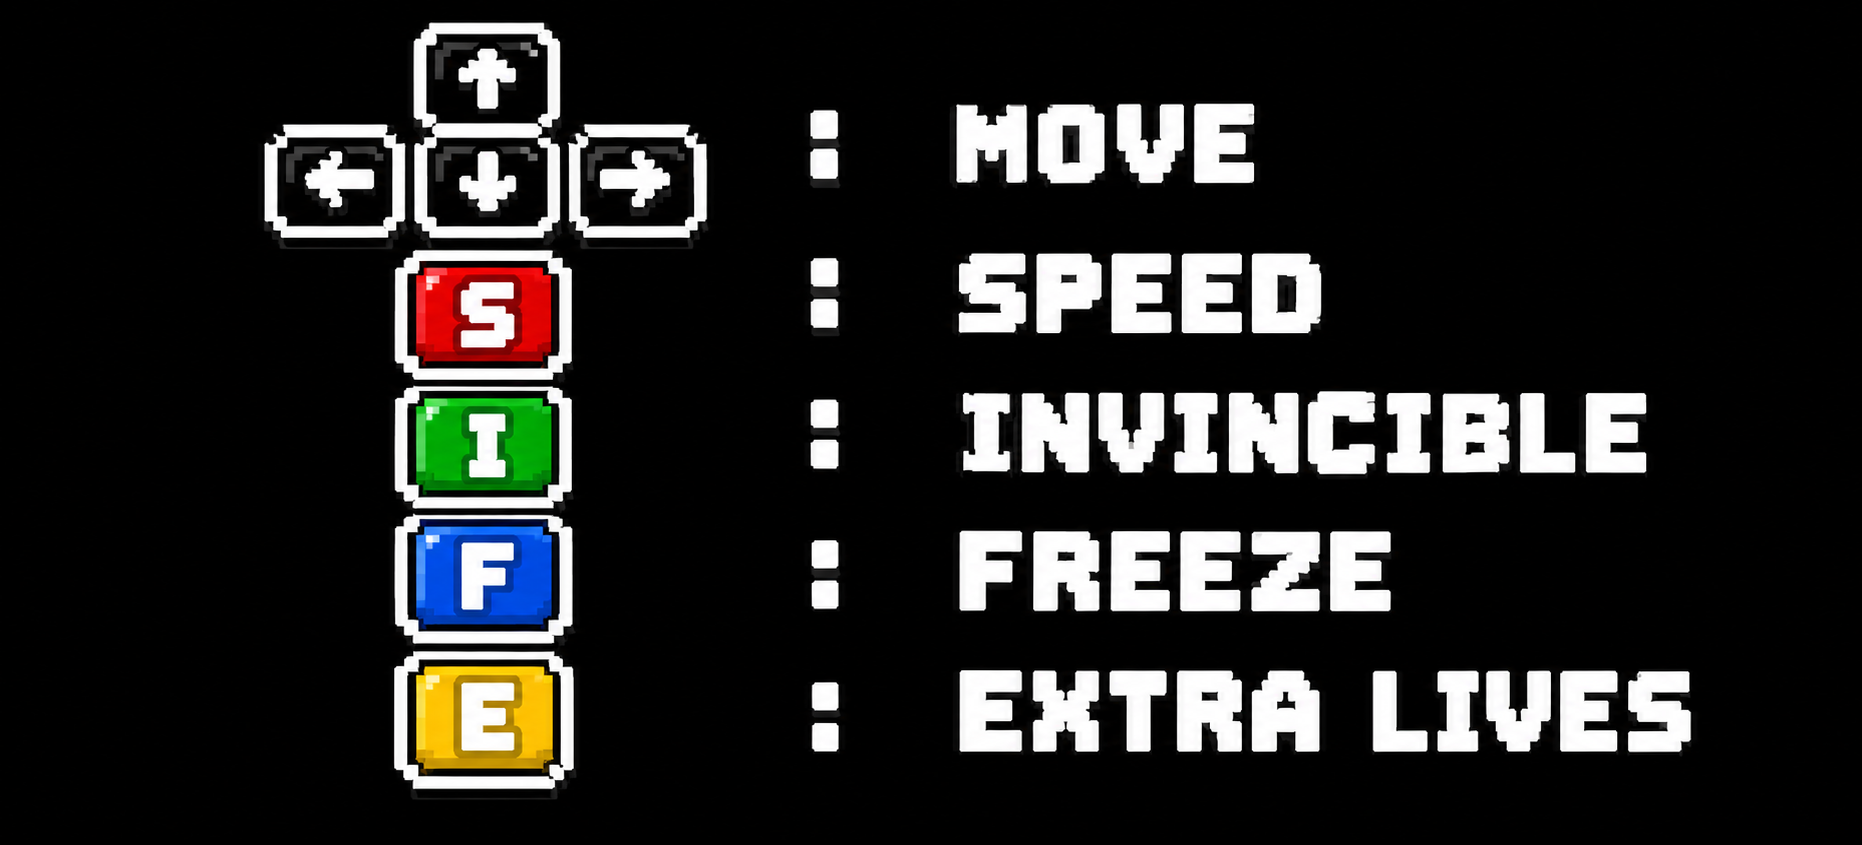
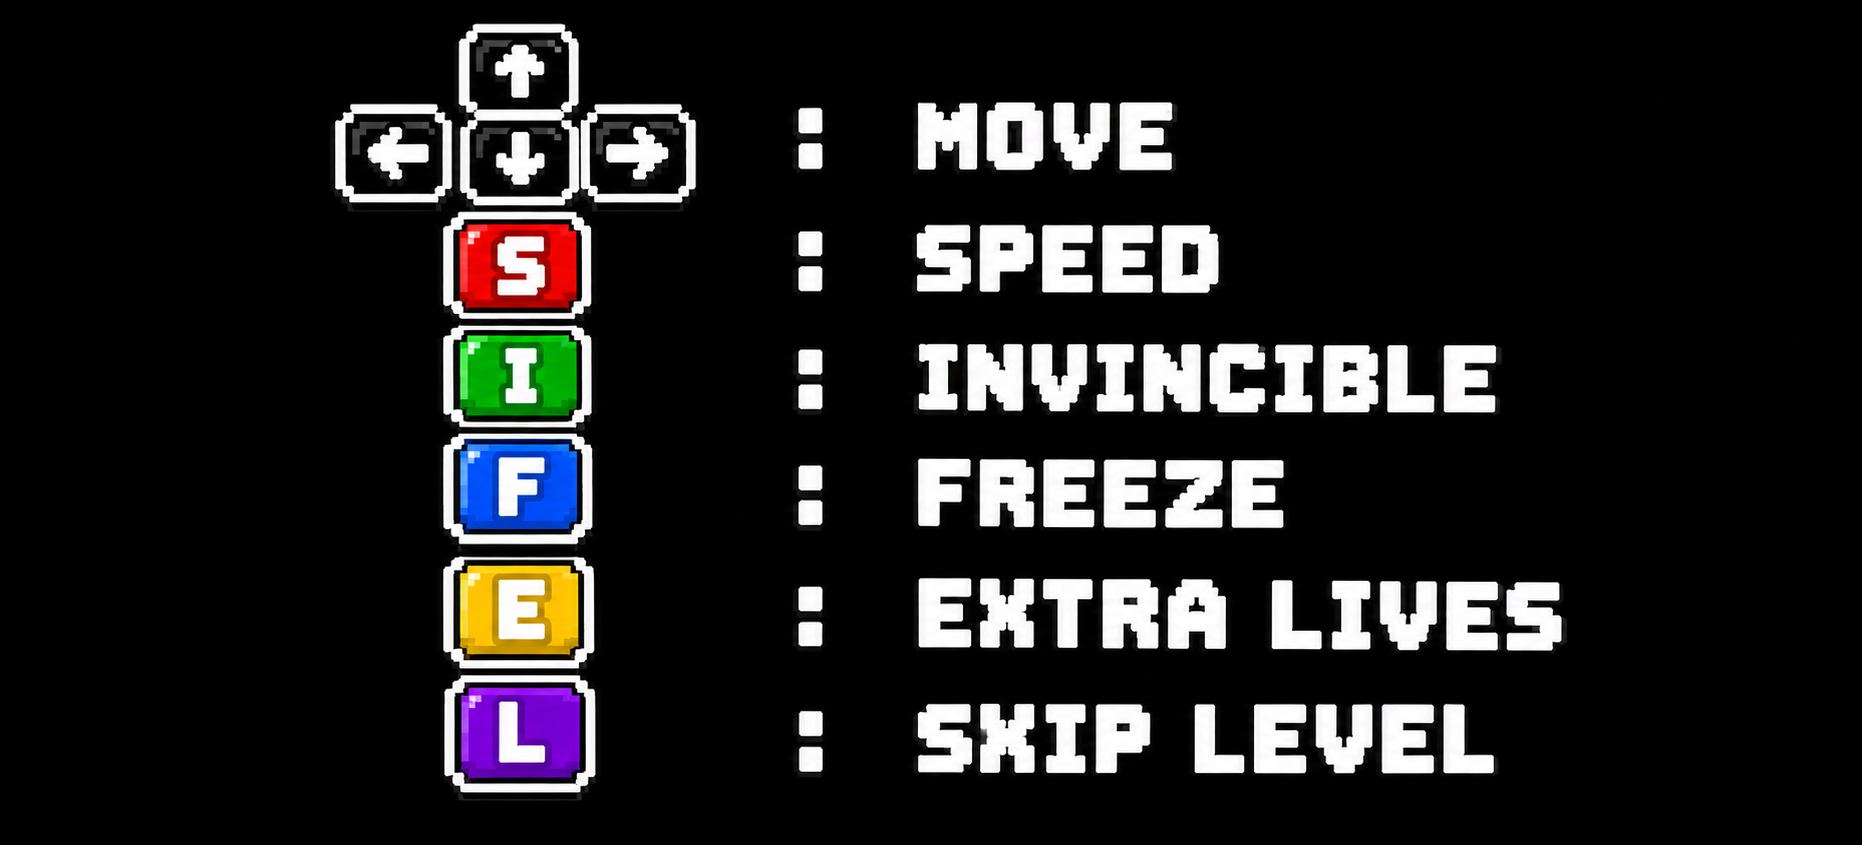
clear highscore and  level skip and victory menu

Changed region(s): [[0.4049, 0.2462, 0.9345, 0.9231], [0.1246, 0.0, 0.6853, 0.9538]]

diff --git a/src/ui.py b/src/ui.py
@@ -1,64 +1,67 @@
+import sys
 import pygame
 
 class Images:
     def __init__(self):
-        self.img_title = pygame.image.load("assets/images/title.png")
-        self.img_title = pygame.transform.scale(self.img_title ,(550, 150))
-        self.img_start = pygame.image.load("assets/images/start.png")
-        self.img_start = pygame.transform.scale(self.img_start ,(400, 150))
-        self.img_start_hover = pygame.image.load("assets/images/start_hover.png")
-        self.img_start_hover = pygame.transform.scale(self.img_start_hover ,(400, 150))
-        self.img_highscore = pygame.image.load("assets/images/highscore.png")
-        self.img_highscore = pygame.transform.scale(self.img_highscore ,(400, 150))
-        self.img_highscore_hover = pygame.image.load("assets/images/highscore_hover.png")
-        self.img_highscore_hover = pygame.transform.scale(self.img_highscore_hover ,(400, 150))
-        self.img_instructions = pygame.image.load("assets/images/instructions.png")
-        self.img_instructions = pygame.transform.scale(self.img_instructions ,(400, 150))
-        self.img_instructions_hover = pygame.image.load("assets/images/instructions_hover.png")
-        self.img_instructions_hover = pygame.transform.scale(self.img_instructions_hover ,(400, 150))
-        self.img_exit = pygame.image.load("assets/images/exit.png")
-        self.img_exit = pygame.transform.scale(self.img_exit ,(400, 150))
-        self.img_exit_hover = pygame.image.load("assets/images/exit_hover.png")
-        self.img_exit_hover = pygame.transform.scale(self.img_exit_hover ,(400, 150))
-        self.img_dig = {}
-        for d in "0123456789":
-            self.img_dig[d] = pygame.image.load(f"assets/images/digit_{d}.png")
-            self.img_dig[d] = pygame.transform.scale(self.img_dig[d], (40, 40))
-        self.img_heart = pygame.image.load("assets/images/heart.png")
-        self.img_heart = pygame.transform.scale(self.img_heart, (50, 50))
-        self.img_game_over = pygame.image.load("assets/images/game_over.png")
-        self.img_game_over = pygame.transform.scale(self.img_game_over ,(650, 400))
-        self.img_menu = pygame.image.load("assets/images/menu.png")
-        self.img_menu = pygame.transform.scale(self.img_menu, (500, 150))
-        self.img_menu_hover = pygame.image.load("assets/images/menu_hover.png")
-        self.img_menu_hover = pygame.transform.scale(self.img_menu_hover, (500, 150))
-        self.img_pause = pygame.image.load("assets/images/pause.png")
-        self.img_pause = pygame.transform.scale(self.img_pause, (100, 100))
-        self.img_pause_title = pygame.image.load("assets/images/pause_title.png")
-        self.img_pause_title = pygame.transform.scale(self.img_pause_title, (800, 400))
-        self.img_continue = pygame.image.load("assets/images/continue.png")
-        self.img_continue = pygame.transform.scale(self.img_continue, (500, 150))
-        self.img_continue_hover = pygame.image.load("assets/images/continue_hover.png")
-        self.img_continue_hover = pygame.transform.scale(self.img_continue_hover, (500, 150))
-        self.img_on = pygame.image.load("assets/images/on.png")
-        self.img_on = pygame.transform.scale(self.img_on, (100, 50))
-        self.img_off = pygame.image.load("assets/images/off.png")
-        self.img_off = pygame.transform.scale(self.img_off, (100, 50))
-        self.img_freeze = pygame.image.load("assets/images/freeze.png")
-        self.img_freeze = pygame.transform.scale(self.img_freeze, (250, 70))
-        self.img_invincible = pygame.image.load("assets/images/invincible.png")
-        self.img_invincible = pygame.transform.scale(self.img_invincible, (200, 50))
-        self.img_speed = pygame.image.load("assets/images/speed.png")
-        self.img_speed = pygame.transform.scale(self.img_speed, (250, 70))
-        self.img_instructions_title = pygame.image.load("assets/images/instructions_title.png")
-        self.img_instructions_title = pygame.transform.scale(self.img_instructions_title, (800, 200))
-        self.img_highscore_title = pygame.image.load("assets/images/highscore_title.png")
-        self.img_highscore_title = pygame.transform.scale(self.img_highscore_title, (800, 200))
-        self.img_controls = pygame.image.load("assets/images/controls.png")
-        self.img_controls = pygame.transform.scale(self.img_controls, (1000, 500))
-        self.img_box = pygame.image.load("assets/images/box.png")
-        self.img_box = pygame.transform.scale(self.img_box, (500, 150))
-        self.img_save = pygame.image.load("assets/images/save.png")
-        self.img_save = pygame.transform.scale(self.img_save, (500, 150))
-        self.img_save_hover = pygame.image.load("assets/images/save_hover.png")
-        self.img_save_hover = pygame.transform.scale(self.img_save_hover, (500, 150))
+        try :
+            self.img_title = pygame.image.load("assets/images/title.png")
+            self.img_title = pygame.transform.scale(self.img_title ,(550, 150))
+            self.img_start = pygame.image.load("assets/images/start.png")
+            self.img_start = pygame.transform.scale(self.img_start ,(400, 150))
+            self.img_start_hover = pygame.image.load("assets/images/start_hover.png")
+            self.img_start_hover = pygame.transform.scale(self.img_start_hover ,(400, 150))
+            self.img_highscore = pygame.image.load("assets/images/highscore.png")
+            self.img_highscore = pygame.transform.scale(self.img_highscore ,(400, 150))
+            self.img_highscore_hover = pygame.image.load("assets/images/highscore_hover.png")
+            self.img_highscore_hover = pygame.transform.scale(self.img_highscore_hover ,(400, 150))
+            self.img_instructions = pygame.image.load("assets/images/instructions.png")
+            self.img_instructions = pygame.transform.scale(self.img_instructions ,(400, 150))
+            self.img_instructions_hover = pygame.image.load("assets/images/instructions_hover.png")
+            self.img_instructions_hover = pygame.transform.scale(self.img_instructions_hover ,(400, 150))
+            self.img_exit = pygame.image.load("assets/images/exit.png")
+            self.img_exit = pygame.transform.scale(self.img_exit ,(400, 150))
+            self.img_exit_hover = pygame.image.load("assets/images/exit_hover.png")
+            self.img_exit_hover = pygame.transform.scale(self.img_exit_hover ,(400, 150))
+            self.img_heart = pygame.image.load("assets/images/heart.png")
+            self.img_heart = pygame.transform.scale(self.img_heart, (70, 70))
+            self.img_game_over = pygame.image.load("assets/images/game_over.png")
+            self.img_game_over = pygame.transform.scale(self.img_game_over ,(650, 400))
+            self.img_menu = pygame.image.load("assets/images/menu.png")
+            self.img_menu = pygame.transform.scale(self.img_menu, (500, 150))
+            self.img_menu_hover = pygame.image.load("assets/images/menu_hover.png")
+            self.img_menu_hover = pygame.transform.scale(self.img_menu_hover, (500, 150))
+            self.img_pause = pygame.image.load("assets/images/pause.png")
+            self.img_pause = pygame.transform.scale(self.img_pause, (100, 100))
+            self.img_pause_title = pygame.image.load("assets/images/pause_title.png")
+            self.img_pause_title = pygame.transform.scale(self.img_pause_title, (800, 400))
+            self.img_continue = pygame.image.load("assets/images/continue.png")
+            self.img_continue = pygame.transform.scale(self.img_continue, (500, 150))
+            self.img_continue_hover = pygame.image.load("assets/images/continue_hover.png")
+            self.img_continue_hover = pygame.transform.scale(self.img_continue_hover, (500, 150))
+            self.img_on = pygame.image.load("assets/images/on.png")
+            self.img_on = pygame.transform.scale(self.img_on, (100, 50))
+            self.img_off = pygame.image.load("assets/images/off.png")
+            self.img_off = pygame.transform.scale(self.img_off, (100, 50))
+            self.img_freeze = pygame.image.load("assets/images/freeze.png")
+            self.img_freeze = pygame.transform.scale(self.img_freeze, (250, 70))
+            self.img_invincible = pygame.image.load("assets/images/invincible.png")
+            self.img_invincible = pygame.transform.scale(self.img_invincible, (200, 50))
+            self.img_speed = pygame.image.load("assets/images/speed.png")
+            self.img_speed = pygame.transform.scale(self.img_speed, (250, 70))
+            self.img_instructions_title = pygame.image.load("assets/images/instructions_title.png")
+            self.img_instructions_title = pygame.transform.scale(self.img_instructions_title, (800, 200))
+            self.img_highscore_title = pygame.image.load("assets/images/highscore_title.png")
+            self.img_highscore_title = pygame.transform.scale(self.img_highscore_title, (800, 200))
+            self.img_controls = pygame.image.load("assets/images/controls.png")
+            self.img_controls = pygame.transform.scale(self.img_controls, (1000, 500))
+            self.img_box = pygame.image.load("assets/images/box.png")
+            self.img_box = pygame.transform.scale(self.img_box, (500, 150))
+            self.img_save = pygame.image.load("assets/images/save.png")
+            self.img_save = pygame.transform.scale(self.img_save, (500, 150))
+            self.img_save_hover = pygame.image.load("assets/images/save_hover.png")
+            self.img_save_hover = pygame.transform.scale(self.img_save_hover, (500, 150))
+            self.img_victory = pygame.image.load("assets/images/victory.png")
+            self.img_victory = pygame.transform.scale(self.img_victory, (1000, 350))
+        except FileNotFoundError:
+            print(f"Image not Found")
+            sys.exit(1)

diff --git a/src/game.py b/src/game.py
@@ -44,14 +44,14 @@ class Game:
         self.run_menu = True
         self.run_game = True
         self.run_game_over = True
+        self.run_victory = True
         self.run_pause_menu = True
         self.run_instruction = True
         self.run_highscore = True
-        self.socre_y = 910
-        self.time_y = 10
         self.current_dir = None
         self.step_ghost = 0
         self.step_player = 0
+        self.save_ticks = Game.config_dict.get("ghost_speed_ticks", 20)
         self.move_player = Game.config_dict.get("player_default_move", 1)
         self.edible_until = 0
         self.points_ghost = Game.config_dict.get("points_per_ghost", 200)
@@ -85,14 +85,18 @@ class Game:
         self.ghosts = []
         self._place_ghosts()
         self.time_start = pygame.time.get_ticks()
+        Game.config_dict["ghost_speed_ticks"] = self.save_ticks
         self.current_dir = None
         self.step = 0
+        self.edible_until = 0
         self.cheat.frezz = False
         self.cheat.invincible = False
         self.cheat.speed = False
         self.cheat.skip_level = False
+        self.level = 1
 
     def next_level(self):
+        self.cheat.skip_level = False
         self.level += 1
         
         current_ticks = Game.config_dict.get("ghost_speed_ticks", 20)
@@ -135,23 +139,33 @@ class Game:
         self.edible_until = 0
     def draw(self):
         BLACK = (0, 0 ,0)
-        i = 50
         self.screen.fill(BLACK)
         self.maze.draw(self.screen)
-        self.socre_x = 450
+        font = pygame.font.Font("PixelatedEleganceRegular-ovawB.ttf", 50)
+        score_ui = font.render(f"SCORE: {self.player.score}", True, (255, 255, 255))
+        lives_ui = font.render(f"x{self.player.lives}", True, (255, 255, 255))
+        level_title_ui = font.render("level", True, (255, 255, 255))
+        if self.level > 10:
+            self.run_game = False
+            self.run_victory = True
+            self.victory()
+        if self.level < 10:
+            level_ui = font.render(f"0{self.level}", True, (255, 255, 255))
+        if self.level == 10:
+            level_ui = font.render(f"{self.level}", True, (255, 255, 255))
+        self.screen.blit(score_ui, (370, 850))
+        self.screen.blit(lives_ui, (450, 100))
+        self.screen.blit(level_title_ui, (820, 400))
+        self.screen.blit(level_ui, (870, 450))
+        self.screen.blit(self.images.img_heart, (360, 85))
         rect_pause = self.images.img_pause.get_rect()
         rect_pause.x = 5
         rect_pause.y = 5
         self.screen.blit(self.images.img_pause ,rect_pause)
-        for d in str(self.player.score):
-            self.screen.blit(self.images.img_dig[d], (self.socre_x, self.socre_y))
-            self.socre_x += 50
         elapsed = (pygame.time.get_ticks() - self.time_start) // 1000
         time_sec = max(0, (self.time - elapsed))
-        self.time_x = 450
-        for d in str(time_sec):
-            self.screen.blit(self.images.img_dig[d], (self.time_x, self.time_y))
-            self.time_x += 50
+        time_ui = font.render(f"TIME: {time_sec}", True, (255, 255, 255))
+        self.screen.blit(time_ui, (370, 10))
         eaten = [p for p in self.pacgums
                  if abs(self.player.visual_x - p.col * 40) < 15 and abs(self.player.visual_y - p.row * 40) < 15]
         for p in eaten:
@@ -190,9 +204,6 @@ class Game:
                         self.player.lives -= 1
                         self.cheat.frezz = False
             ghost.draw(self.screen, edible and not ghost.is_eaten)
-        for _ in range(self.player.lives):
-            self.screen.blit(self.images.img_heart, (370 + i, 58))
-            i += 50
         self.player.draw(self.screen)
         if time_sec <= 0 or self.player.lives == 0:
             self.run_game = False
@@ -300,6 +311,8 @@ class Game:
             pygame.display.update()
     def highscore(self):
         font = pygame.font.Font("PixelatedEleganceRegular-ovawB.ttf", 40)
+        font_empty = pygame.font.Font("PixelatedEleganceRegular-ovawB.ttf", 70)
+        empty_ui = font_empty.render("No High Score Yet!", True, (255, 255, 255))
         list_highscore = get_top_ten()
         while self.run_highscore:
             BLACK = (0, 0 ,0)
@@ -310,12 +323,19 @@ class Game:
             rect_menu_hover = self.images.img_menu_hover.get_rect()
             rect_menu_hover.x = 250
             rect_menu_hover.y = 800
+            if len(list_highscore) == 0:
+                self.screen.blit(empty_ui, (75, 450))
+            if len(list_highscore) > 0: 
+                _, first_socre = list_highscore[0]
             for element in list_highscore:
                 name, score = element
-                if score > 0:
-                    text_ui = font.render(f"{name} : {score}", True, (255, 255, 255))
-                    self.screen.blit(text_ui, (300, 200 + i))
-                    i += 60
+                if first_socre > 0:
+                    if score > 0:
+                        text_ui = font.render(f"{name} : {score}", True, (255, 255, 255))
+                        self.screen.blit(text_ui, (300, 200 + i))
+                        i += 60
+                else:
+                    self.screen.blit(empty_ui, (75, 450))
             if rect_menu_hover.collidepoint(pygame.mouse.get_pos()):
                 self.screen.blit(self.images.img_menu_hover, rect_menu_hover)
             for event in pygame.event.get():
@@ -353,6 +373,8 @@ class Game:
                     if event.key == pygame.K_e:
                         if self.player.lives < 5:
                             self.player.lives += 1
+                    if event.key == pygame.K_l:
+                        self.cheat.skip_level = True
                     if event.key == pygame.K_s:
                         self.cheat.speed = not self.cheat.speed
                         if self.cheat.speed:
@@ -390,7 +412,6 @@ class Game:
                 for ghost in self.ghosts:
                     ghost.update_visual()
             self.player.update_visual(self.move_player)
-            
             self.player.invincible = self.cheat.invincible
             self.draw()
     def pause_menu(self):
@@ -466,6 +487,62 @@ class Game:
                         with open(hs_file, "w") as f:
                             json.dump(data, f, indent=2)
                         self.run_game_over = False
+                        self.run_menu = True
+                        self.main_menu()
+                if event.type == pygame.TEXTINPUT:
+                    if len(text) < 10 and (event.text.isalnum() or event.text == " "):
+                        text += event.text
+                if event.type == pygame.KEYDOWN:
+                    if event.key == pygame.K_BACKSPACE:
+                        text = text[:-1]
+            text = text.lower()
+            if len(text) == 0:
+                self.screen.blit(empty, (300, 545))
+            if len(text) > 0:
+                self.screen.blit(text_ui, (300, 545))
+            pygame.display.update()
+    def victory(self):
+        font = pygame.font.Font("PixelatedEleganceRegular-ovawB.ttf", 50)
+        empty = font.render("Enter user", True, (0, 0, 0))
+        text = ""
+        data = {}
+        hs_file = Game.config_dict.get("highscore_filename", "highscore.json")
+        try:
+            with open(hs_file, "r") as f:
+                data = json.load(f)
+        except (json.JSONDecodeError, FileNotFoundError):
+            with open(hs_file, "w") as f:
+                json.dump({}, f, indent=2)
+        while self.run_victory:
+            BLACK = (0, 0 ,0)
+            self.screen.fill(BLACK)
+            self.screen.blit(self.images.img_box, (250, 500))
+            self.screen.blit(self.images.img_victory, (10, 10))
+            rect_save = self.images.img_save.get_rect()
+            rect_save.x = 250
+            rect_save.y = 700
+            rect_save_hover = self.images.img_save_hover.get_rect()
+            rect_save_hover.x = 250
+            rect_save_hover.y = 700
+            self.screen.blit(self.images.img_save, rect_save)
+            text_ui = font.render(text, True, (0, 0, 0))
+            if rect_save_hover.collidepoint(pygame.mouse.get_pos()):
+                self.screen.blit(self.images.img_save_hover, rect_save_hover)
+            for event in pygame.event.get():
+                if event.type == pygame.QUIT:
+                    self.running = False
+                    self.run_game = False
+                    sys.exit(0)
+                if event.type == pygame.MOUSEBUTTONDOWN:
+                    if rect_save.collidepoint(event.pos) and len(text) > 0:
+                        if text in data:
+                            data[text] = max(data[text], self.player.score)
+                        else:
+                            data[text] = self.player.score
+                        data = dict(sorted(data.items(), key=lambda item: item[1], reverse=True))
+                        with open(hs_file, "w") as f:
+                            json.dump(data, f, indent=2)
+                        self.run_victory = False
                         self.run_menu = True
                         self.main_menu()
                 if event.type == pygame.TEXTINPUT:

diff --git a/src/highscore.py b/src/highscore.py
@@ -10,7 +10,7 @@ def get_top_ten():
     try:
         with open(filename) as high_score_file:
             highscores = json.load(high_score_file)
-    except FileNotFoundError:
+    except (FileNotFoundError, json.JSONDecodeError):
         highscores = {}
     
     hscores = sorted(highscores.items(), key=lambda x: x[1], reverse=True)
